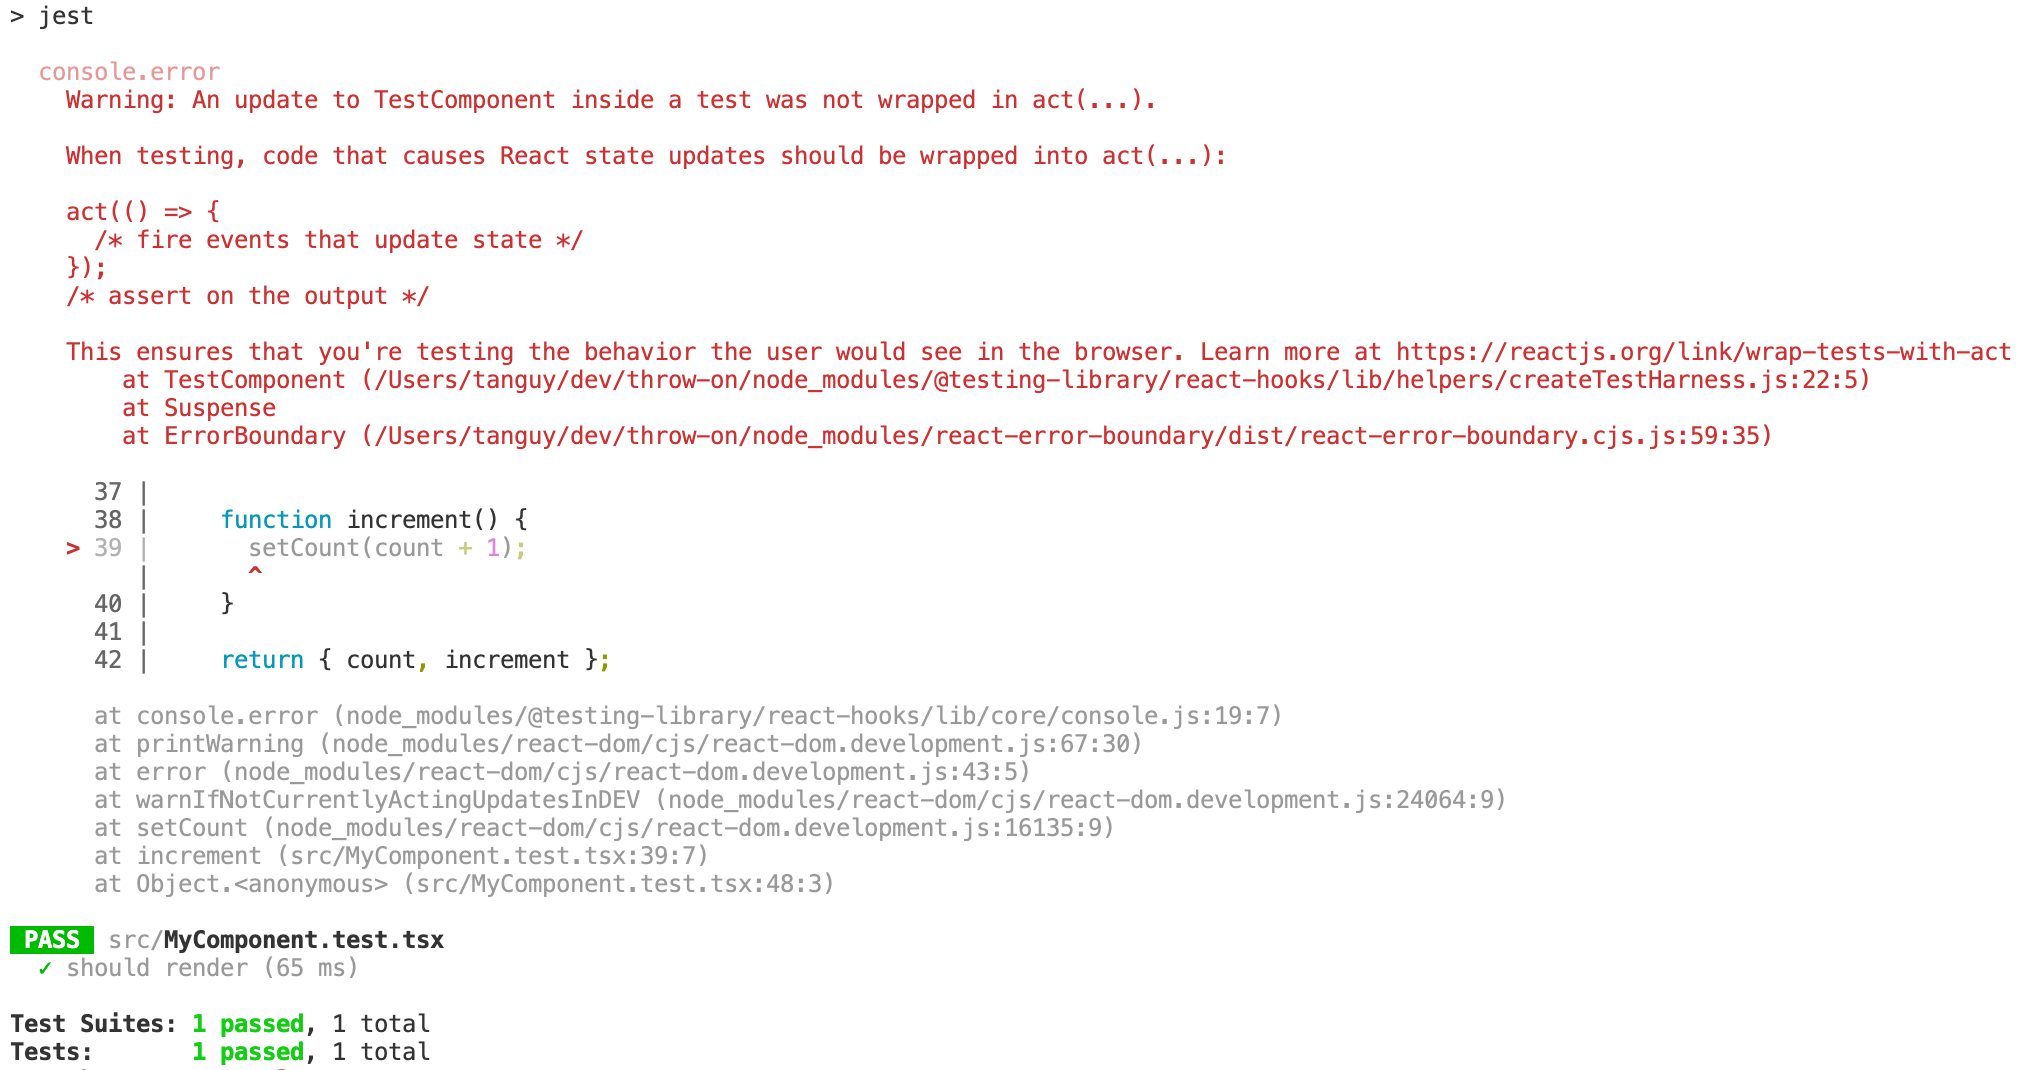
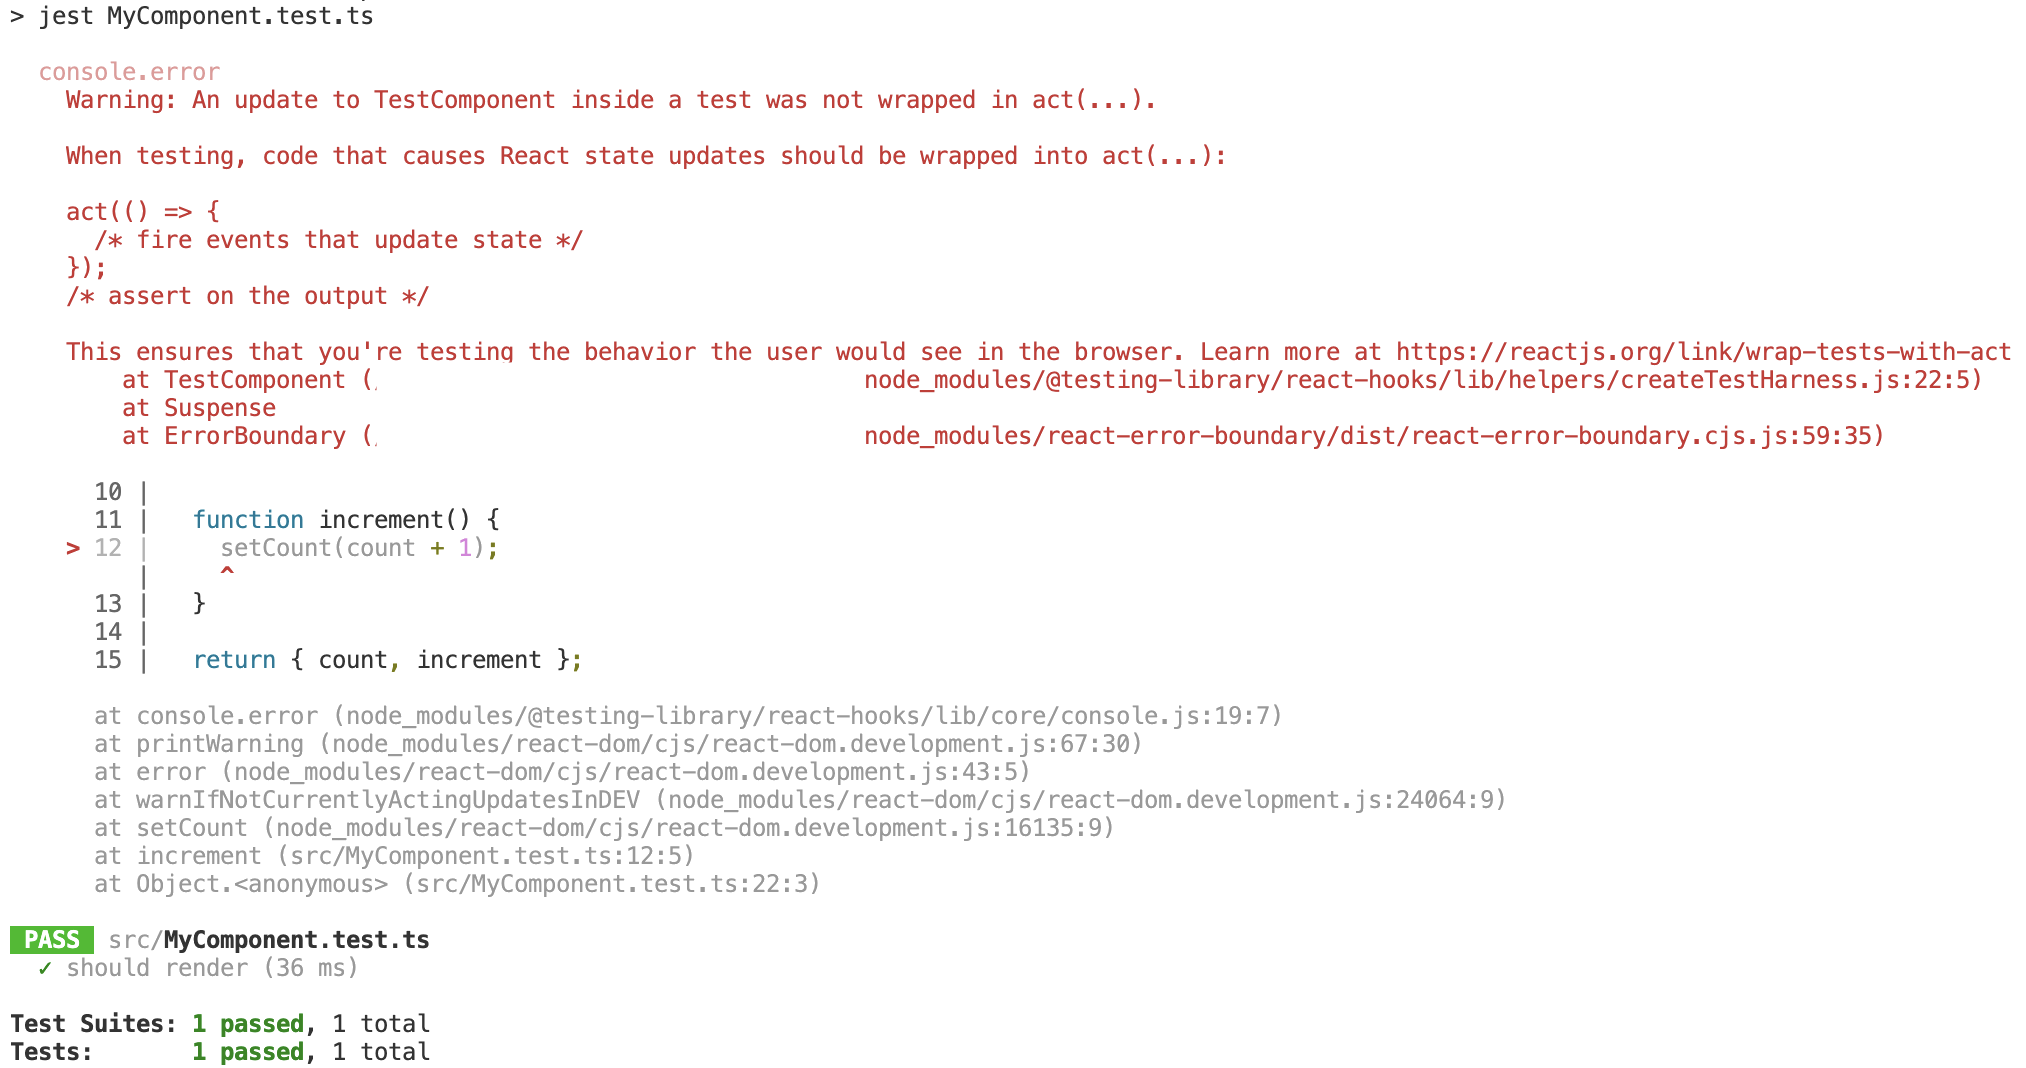
Document new behavior

diff --git a/src/MyComponent.test.ts b/src/MyComponent.test.ts
@@ -1,0 +1,21 @@
+import { renderHook } from '@testing-library/react-hooks';
+import { useState } from 'react';
+
+import { restoreConsole } from './throwOnConsole';
+
+restoreConsole('error');
+
+function useCounter() {
+  const [count, setCount] = useState(0);
+
+  function increment() {
+    setCount(count + 1);
+  }
+
+  return { count, increment };
+}
+
+test('should render', () => {
+  const { result } = renderHook(() => useCounter());
+  result.current.increment();
+});

diff --git a/README.md b/README.md
@@ -7,7 +7,7 @@
 [![Prettier](https://img.shields.io/badge/code_style-prettier-ff69b4.svg)](https://github.com/prettier/prettier)
 [![Airbnb Code Style](https://badgen.net/badge/code%20style/airbnb/ff5a5f?icon=airbnb)](https://github.com/airbnb/javascript)
 
-Force console.error and network requests to fail.
+Force console.error/warn and network requests to fail.
 
 - Tiny: less than 100 lines of code
 - No dependencies
@@ -18,14 +18,14 @@ Force console.error and network requests to fail.
 
 ## Why?
 
-Do you have warnings like _"An update inside a test was not wrapped in act"_ or _"Can't perform a React state update on an unmounted component"_ when running your React app?
+Do you have warnings like _"An update inside a test was not wrapped in act"_ or _"Can't perform a React state update on an unmounted component"_ when running or testing your React app? Are your tests performing network requests when they shouldn't?
 
-Are your tests performing network requests when they shouldn't?
+Solution: throw whenever there is a warning (e.g. console.error/warn) or a network request that isn't mocked
 
-Solution: throw whenever there is a React warning (e.g. console.error) or a network request that isn't mocked.
+- The sooner a test fails, the easier it is to fix
+- Improve code quality
 
-- The sooner a test fails, the easier it is to fix it
-- Improve the quality of your code (like an ESLint rule but at runtime)
+throw-on still displays the original console message before throwing an exception with the message `throw-on console.[METHOD]: [ORIGINAL_MESSAGE_SHORTEN]`
 
 Result:
 
@@ -33,13 +33,9 @@ Result:
 
   ![before](doc/was-not-wrapped-in-act-original.png)
 
-  ![before](doc/state-update-on-unmounted-component-original.png)
-
 - after (test fails)
 
   ![after](doc/was-not-wrapped-in-act-throwOnConsoleError.png)
-
-  ![after](doc/state-update-on-unmounted-component-throwOnConsoleError.png)
 
 ## Usage
 
@@ -68,7 +64,7 @@ throwOnXMLHttpRequestOpen();
 `npm install throw-on`
 
 ```TypeScript
-// Inside your entry file (something like index.js or app.js)
+// Inside your entry file (something like index.js, app.js, pages/_app.js)
 
 if (process.env.NODE_ENV !== 'production') { // You probably don't want this in production
   const { throwOnConsole } = await import('throw-on');
@@ -100,14 +96,6 @@ type Options = {
    * Empty list by default.
    */
   ignore?: (string | RegExp)[];
-
-  /**
-   * Displays the full stack trace including the 'throwError()' part if true; this helps for debugging.
-   * Works only under V8.
-   *
-   * False by default.
-   */
-  fullStackTrace?: boolean;
 };
 
 type ConsoleMethodName = 'assert' | 'error' | 'warn' | 'info' | 'log' | 'dir' | 'debug';
@@ -145,8 +133,19 @@ function restoreXMLHttpRequestOpen(): void;
 
 ## Limitations
 
-When using the `ignore` option, the stack trace displayed by Jest includes an extra line corresponding to throw-on source code.
-I did not find a solution, here is an attempt: https://github.com/tkrotoff/throw-on/pull/1
+- Be careful: it adds a line to Jest stack trace, messing up the [codeframe](https://github.com/facebook/jest/issues/8819):
 
-Libraries that console.\* exceptions <sup>[1](https://github.com/expressjs/express/blob/4.17.3/lib/application.js#L630)</sup> <sup>[2](https://github.com/expressjs/api-error-handler/blob/1.0.0/index.js#L22)</sup> introduce an infinite loop:
-throw-on intercepts the console.\* call and throws an exception => the library catches the exception and console.\* it, ect.
+  ```
+  at console.<computed> (src/throwOnConsole.ts:69:7) <===
+  at console.error (node_modules/@testing-library/react-hooks/lib/core/console.js:19:7)
+  at printWarning (node_modules/react-dom/cjs/react-dom.development.js:67:30)
+  at error (node_modules/react-dom/cjs/react-dom.development.js:43:5)
+  ...
+  ```
+
+  Use `restoreConsole()` to get the original codeframe
+
+- Be careful: the shorten exception message does not always match the original console message (because of [React error boundary](https://reactjs.org/docs/error-boundaries.html)?)
+
+- Libraries that console.\* exceptions <sup>[1](https://github.com/expressjs/express/blob/4.17.3/lib/application.js#L630)</sup> <sup>[2](https://github.com/expressjs/api-error-handler/blob/1.0.0/index.js#L22)</sup> introduce an infinite loop:
+  throw-on intercepts the console.\* call and throws an exception => the library catches the exception and console.\* it, ect.
